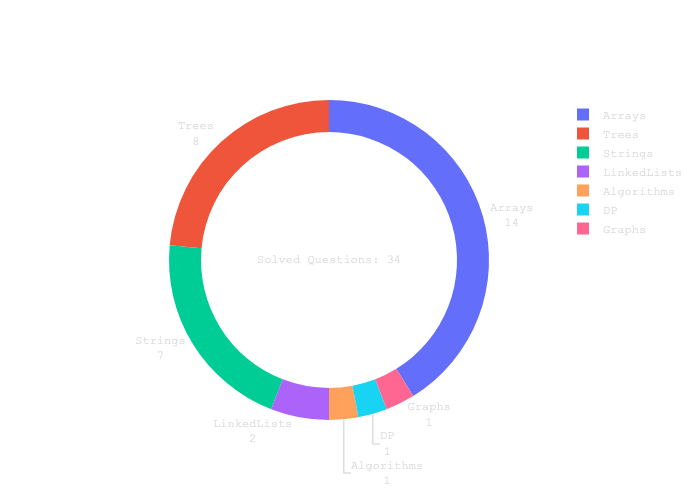
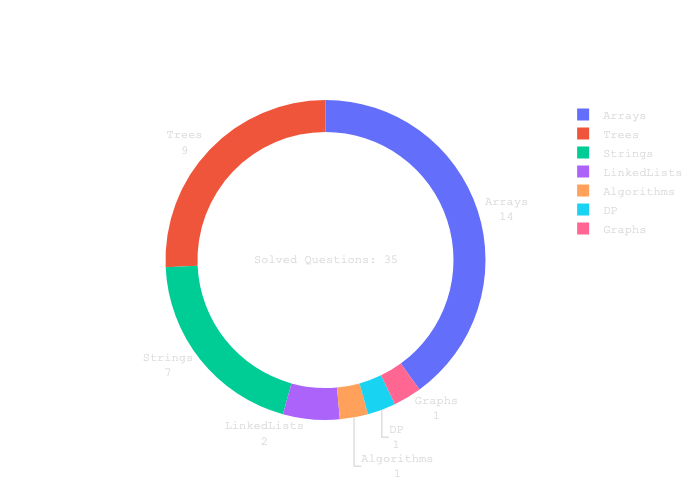
Level order traversal of tree

diff --git a/Trees/bTreeLevelOrder.py b/Trees/bTreeLevelOrder.py
@@ -1,0 +1,23 @@
+from collections import deque
+from typing import List, Optional
+
+from utils.TreeNode import TreeNode
+
+
+def levelOrder(root: Optional[TreeNode]) -> List[List[int]]:
+    if not root:
+        return []
+    q = deque([root])
+    res = []
+    while q:
+        level = []
+        for i in range(len(q)):
+            cur = q.popleft()
+            if cur.left:
+                q.append(cur.left)
+            if cur.right:
+                q.append(cur.right)
+            level.append(cur.val)
+        res.append(level)
+
+    return res
